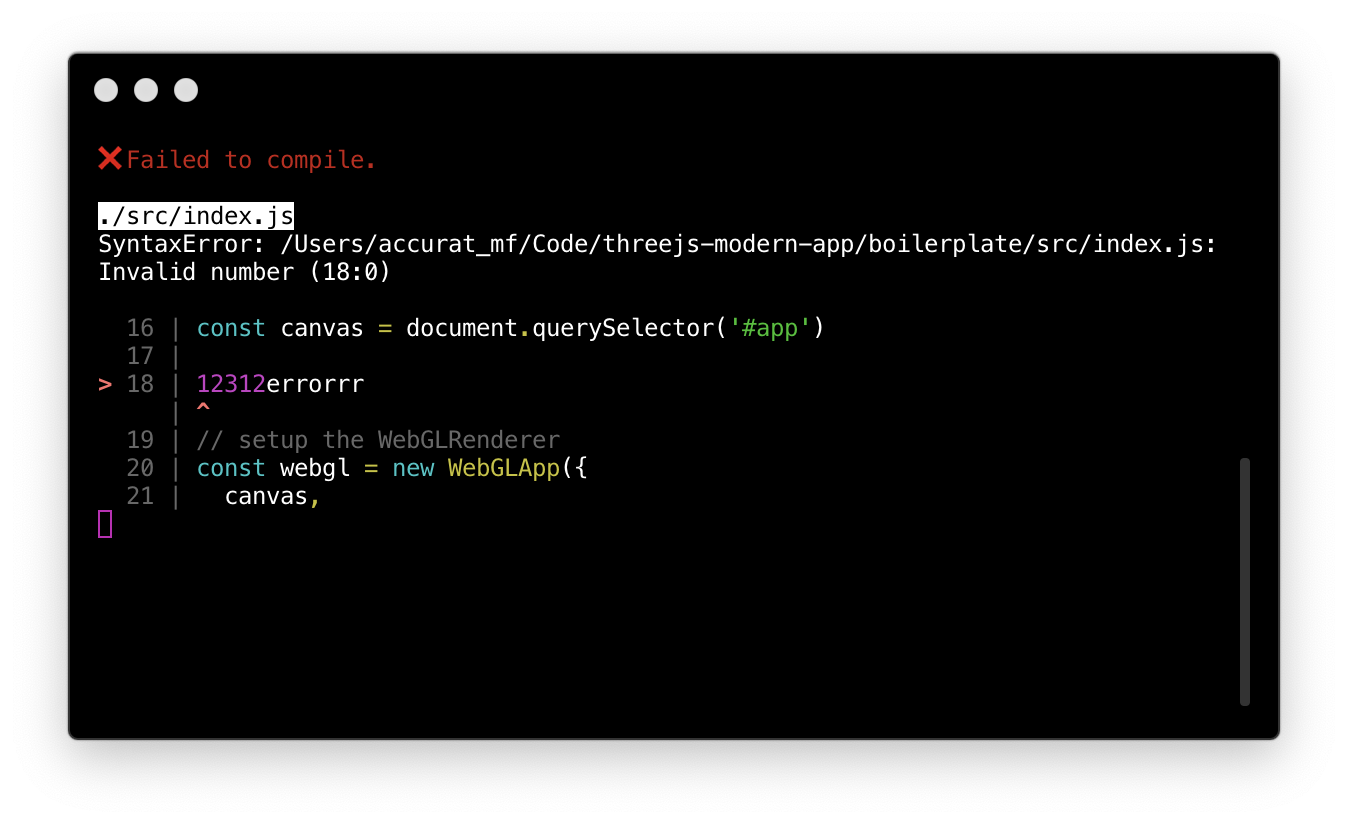
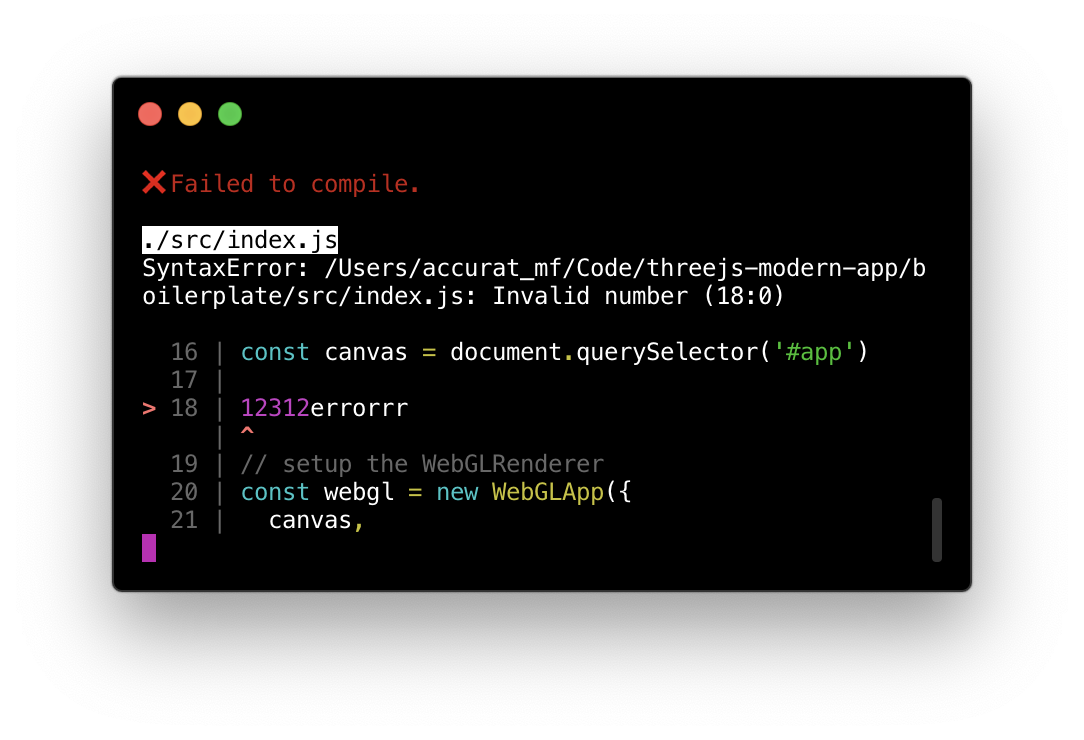
📸 Adjust size of console screenshots

Changed region(s): [[0.0304, 0.0622, 0.9742, 0.9324]]

diff --git a/boilerplate/src/index.js b/boilerplate/src/index.js
@@ -14,7 +14,7 @@ window.DEBUG = window.location.search.includes('debug')
 
 // grab our canvas
 const canvas = document.querySelector('#app')
-
+console.log('asa')
 // setup the WebGLRenderer
 const webgl = new WebGLApp({
   canvas,

diff --git a/README.md b/README.md
@@ -23,7 +23,11 @@ It is inspired from [mattdesl](https://twitter.com/mattdesl)'s [threejs-app](htt
 - Modern and customizable development tools such as webpack, babel, eslint, prettier and browserslist.
 - Beautiful console output:
 
-<img src="screenshots/console-success.png" width="445" /><img src="screenshots/console-error.png" width="435" /><img src="screenshots/console-build.png" width="700" />
+<img src="screenshots/console-success.png" width="440" /><img src="screenshots/console-error.png" width="440" />
+
+![console-build](screenshots/console-build.png)
+
+<img src="screenshots/console-build.png" width="700" />
 
 ## WebGLApp
 
